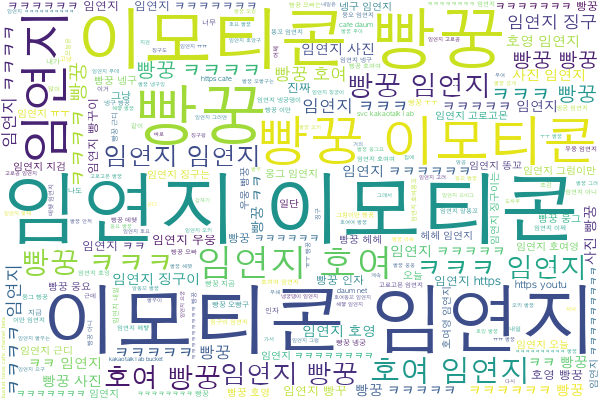
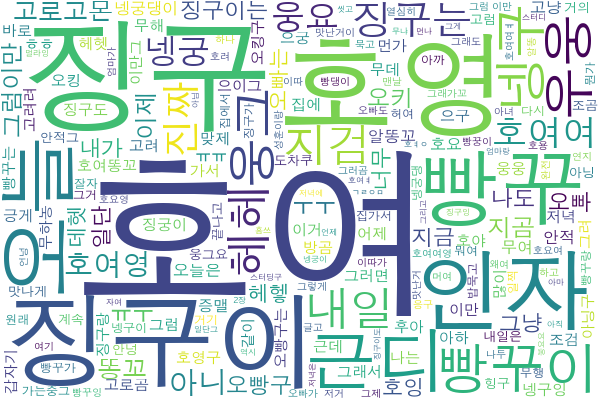
Make word cloud with kakaotalk messages

diff --git a/wordcloud_ex.py b/wordcloud_ex.py
@@ -1,18 +1,32 @@
 text = ''
 with open("kakao.txt", "r", encoding="utf-8") as f:
     lines = f.readlines()
-    for line in lines:
-        text += line
+    # 데이터 클렌징
+    for line in lines[1:]: # 두번째 라인부터 읽으면 될 듯
+        if 'https://' in line:
+            continue
+        if '","' in line:
+            text += line.split('","')[1].replace('이모티콘','').replace('ㅋ','').replace('"','').replace('사진\n','')
+
+# print(text)
 
 # import matplotlib.font_manager as fm
 from wordcloud import WordCloud
+from PIL import Image
+import numpy as np
 
-# 경로 넣을 때 윈도우는 \를 /로 바꿔주기
-wc = WordCloud(font_path='/System/Library/Fonts/Supplemental/AppleGothic.ttf', background_color="white", width=600, height=400)
+mask = np.array(Image.open('heart.jpg'))
+wc = WordCloud(font_path='System/Library/Fonts/Supplemental/AppleGothic.ttf', background_color="white", mask=mask)
 wc.generate(text)
-wc.to_file("result.png")
+wc.to_file("result_masked.png")
+
+# # 경로 넣을 때 윈도우는 \를 /로 바꿔주기
+# wc = WordCloud(font_path='/System/Library/Fonts/Supplemental/AppleGothic.ttf', background_color="white", width=600, height=400)
+# wc.generate(text)
+# wc.to_file("result.png")
 
 # 이용 가능한 폰트 중 '고딕'만 선별
 # for font in fm.fontManager.ttflist:
 #     if 'Gothic' in font.name:
 #         print(font.name, font.fname)
+
